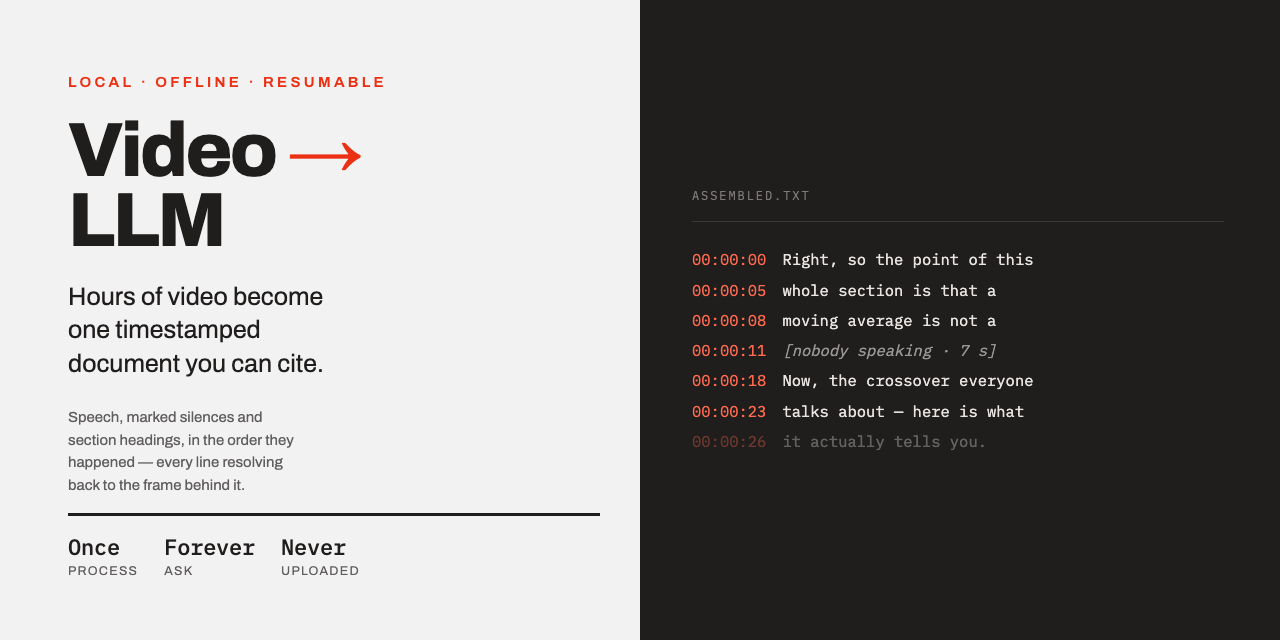
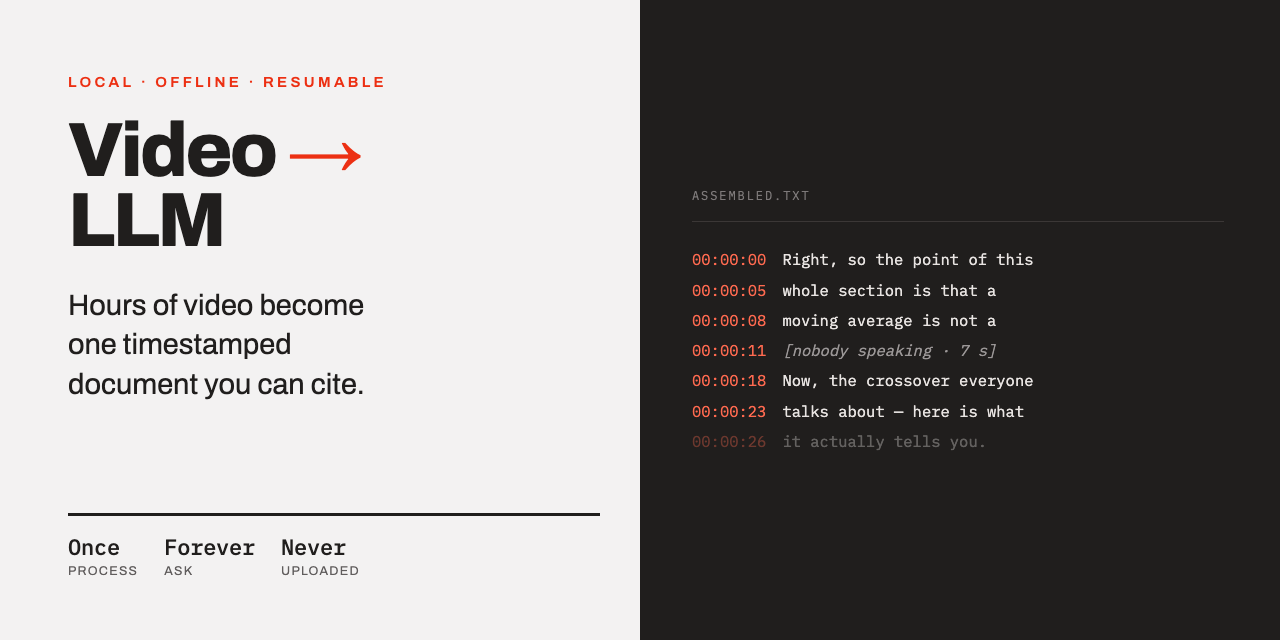
Drop the line on the social card that only worked at full size
The card is read at about 500px wide in a feed, not at 1280. At that size the
small grey paragraph under the tagline degraded to grey noise, and it was
competing with the tagline directly above it to do the same job.

Removed, and the tagline takes the room it freed — 25px to 29px. Everything
that survives the shrink now earns its place: the name, one sentence, the three
words, and the shape of a timestamped document on the right. The transcript
stops being readable word-by-word at that size and is not meant to be; the
orange timestamps in a column still say what the file is.

Checked by rendering at 500px rather than by looking at the full-size export,
which is the mistake that put the line there in the first place.

Changed region(s): [[0.0312, 0.4375, 0.2812, 0.7812]]

diff --git a/docs/assets/social-preview.html b/docs/assets/social-preview.html
@@ -35,8 +35,8 @@
   h1 .arrow { color: #ec3013; }
 
   .tagline {
-    font-size: 25px; line-height: 1.34; font-weight: 400;
-    color: #201e1d; margin-top: 24px; max-width: 20ch;
+    font-size: 29px; line-height: 1.36; font-weight: 400;
+    color: #201e1d; margin-top: 30px; max-width: 19ch;
   }
 
   .facts { display: flex; gap: 0; margin-top: auto; border-top: 3px solid #201e1d; }
@@ -67,10 +67,6 @@
   .t { color: #ff6a50; }
   .quiet { color: #9b9797; font-style: italic; }
   .fade { opacity: 0.34; }
-  .sub {
-    font-size: 15px; line-height: 1.5; color: #605d5d;
-    margin-top: 26px; max-width: 28ch;
-  }
 </style>
 </head>
 <body>
@@ -79,8 +75,6 @@
       <div class="mark">Local · offline · resumable</div>
       <h1>Video&nbsp;<span class="arrow">→</span><br>LLM</h1>
       <p class="tagline">Hours of video become one timestamped document you can cite.</p>
-      <p class="sub">Speech, marked silences and section headings, in the order they
-        happened — every line resolving back to the frame behind it.</p>
     </div>
     <div class="facts">
       <div class="fact"><b>Once</b><span>Process</span></div>
